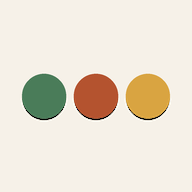
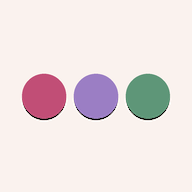
Palette plus douce et féminine : rosé poudré, framboise/sauge/lilas

Changed region(s): [[0.6562, 0.375, 0.9062, 0.625], [0.0938, 0.375, 0.3438, 0.625], [0.375, 0.375, 0.625, 0.625]]

diff --git a/styles.css b/styles.css
@@ -4,19 +4,19 @@
    ========================================================================== */
 
 :root {
-  --paper: #F6F1E8;
-  --paper-raised: #FDFAF4;
-  --ink: #2E2921;
-  --ink-soft: #6E6558;
-  --ink-faint: #A79C8C;
-  --line: rgba(46, 41, 33, 0.1);
+  --paper: #FAF2EE;
+  --paper-raised: #FFFBF8;
+  --ink: #3A2A31;
+  --ink-soft: #7D6470;
+  --ink-faint: #B39AA5;
+  --line: rgba(58, 42, 49, 0.1);
 
-  --st-consultation: #B4532F;
-  --st-consultation-soft: #F3DED4;
-  --st-cabinet: #4A7C59;
-  --st-cabinet-soft: #DDE8DC;
-  --st-absente: #948A7B;
-  --st-absente-soft: #EAE4D9;
+  --st-consultation: #C14E76;
+  --st-consultation-soft: #F7DEE8;
+  --st-cabinet: #5E9678;
+  --st-cabinet-soft: #DFEDE4;
+  --st-absente: #A5919B;
+  --st-absente-soft: #EFE6EA;
 
   --radius: 22px;
   --shadow: 0 1px 2px rgba(46, 41, 33, .05), 0 10px 30px -12px rgba(46, 41, 33, .18);
@@ -41,9 +41,9 @@ body {
   inset: 0;
   z-index: -1;
   background:
-    radial-gradient(90vw 60vh at 110% -10%, rgba(180, 83, 47, .07), transparent 65%),
-    radial-gradient(80vw 55vh at -15% 20%, rgba(74, 124, 89, .08), transparent 60%),
-    radial-gradient(70vw 50vh at 50% 115%, rgba(217, 164, 65, .07), transparent 60%);
+    radial-gradient(90vw 60vh at 110% -10%, rgba(193, 78, 118, .09), transparent 65%),
+    radial-gradient(80vw 55vh at -15% 20%, rgba(155, 126, 196, .09), transparent 60%),
+    radial-gradient(70vw 50vh at 50% 115%, rgba(227, 160, 99, .08), transparent 60%);
 }
 .wash::after {
   content: "";
@@ -101,9 +101,9 @@ body {
   border-radius: 50%;
   animation: dot-float 3.2s ease-in-out infinite;
 }
-.hero-dots span:nth-child(1) { background: var(--st-cabinet); }
-.hero-dots span:nth-child(2) { background: var(--st-consultation); animation-delay: .4s; }
-.hero-dots span:nth-child(3) { background: #D9A441; animation-delay: .8s; }
+.hero-dots span:nth-child(1) { background: var(--st-consultation); }
+.hero-dots span:nth-child(2) { background: #9B7EC4; animation-delay: .4s; }
+.hero-dots span:nth-child(3) { background: var(--st-cabinet); animation-delay: .8s; }
 
 @keyframes dot-float {
   0%, 100% { transform: translateY(0); }
@@ -417,8 +417,8 @@ body {
 .status-pill[data-status="absente"] .dot { background: var(--st-absente); }
 
 @keyframes pulse {
-  0%, 100% { box-shadow: 0 0 0 0 rgba(180, 83, 47, .45); }
-  60% { box-shadow: 0 0 0 6px rgba(180, 83, 47, 0); }
+  0%, 100% { box-shadow: 0 0 0 0 rgba(193, 78, 118, .45); }
+  60% { box-shadow: 0 0 0 6px rgba(193, 78, 118, 0); }
 }
 
 .team-empty {

diff --git a/app.js b/app.js
@@ -13,8 +13,8 @@ const STATUSES = [
 ];
 
 const COLORS = [
-  "#C94F5F", "#E07A4F", "#B4532F", "#D9A441", "#7D8C4E",
-  "#4A7C59", "#3E8B96", "#4E6FA5", "#8571AE", "#A05579",
+  "#D96C93", "#B84A6E", "#E58579", "#E3A063", "#A34D74",
+  "#7FA588", "#6BA3A8", "#7C8FC9", "#9B7EC4", "#8A5A96",
 ];
 
 const $ = (id) => document.getElementById(id);

diff --git a/index.html b/index.html
@@ -5,7 +5,7 @@
   <meta name="viewport" content="width=device-width, initial-scale=1.0, viewport-fit=cover, user-scalable=no">
   <title>Le Cabinet</title>
   <meta name="description" content="Qui est au cabinet ? Présence en temps réel.">
-  <meta name="theme-color" content="#F6F1E8">
+  <meta name="theme-color" content="#FAF2EE">
   <link rel="manifest" href="manifest.webmanifest">
   <link rel="apple-touch-icon" href="icons/apple-touch-icon.png">
   <meta name="apple-mobile-web-app-capable" content="yes">

diff --git a/sw.js b/sw.js
@@ -1,5 +1,5 @@
 /* Le Cabinet — service worker : coquille en cache, données toujours réseau */
-const CACHE = "cabinet-v1";
+const CACHE = "cabinet-v2";
 const SHELL = [
   "./",
   "./index.html",